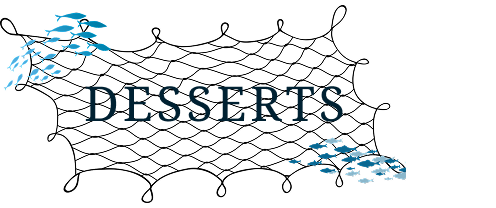
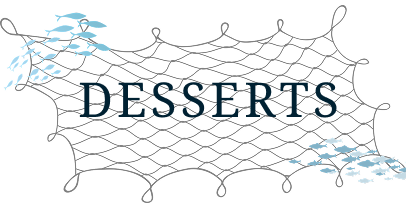
refactor: fix menu styles

Changed region(s): [[0.0, 0.0288, 1.0, 0.9808]]

diff --git a/menu.html b/menu.html
@@ -44,7 +44,7 @@
     </header>
     <main>
         <div class="categories-header-img">
-            <img src="Assets/header-main-courses.png" alt="Header Image for Main Courses">
+            <img src="Assets/header-main-courses.png" alt="Header Image for Main Courses" class="menu-header-img" id="mainCourseHeader">
         </div>
         <section class="menu-body main-courses">
             <div class="menu-container">
@@ -100,11 +100,11 @@
                             <h3 class="menu-subtitle menu-subtitle1 menu-name">Ocean Feast Seafood Tray - Classic</h3>
                             <h3 class="menu-subtitle menu-subtitle2 menu-price">PHP 2199</h3>
                         </div>
-                        <p class="menu-description-tray">
+                        <p class="menu-description">
                             Contains 500g of Crabs, 400g of Shrimp, 400g of squid,  2 pieces of Lobsters, 250g of mussels and scallops, 250g of oysters,
                             100g of potato marbles, 2 corns, eggs, sausages and 350g of mixed veggies.
                         </p>
-                        <p class="menu-extra-tray">
+                        <p class="menu-extra">
                             Indulge in a lavish seafood feast with our Signature Seafood Tray Boil, a perfectly seasoned medley of ocean-fresh delights. 
                             Enjoy succulent crabs, plump shrimp, tender lobster, and flavorful mussels and scallops, all complemented by buttery potatoes and sweet corn. 
                             Steamed to perfection and infused with rich, aromatic spices, this seafood experience is designed for sharing and savoring. Get hooked on the ocean’s finest!
@@ -120,11 +120,11 @@
                             <h3 class="menu-subtitle menu-subtitle1 menu-name">Ocean Feast Seafood Tray - Supreme</h3>
                             <h3 class="menu-subtitle menu-subtitle2 menu-price">PHP 2899</h3>
                         </div>
-                        <p class="menu-description-tray">    
+                        <p class="menu-description">    
                             Contains 800g of Crabs, 600g of Shrimp, 600g of squid,  4 pieces of Lobsters, 500g of mussels and scallops, 350g of oysters,
                             200g of potato marbles, 4 corns, eggs, sausages, lemon butter dip, and 500g of mixed veggies.
                         </p>
-                        <p class="menu-extra-tray">
+                        <p class="menu-extra">
                             Indulge in a lavish seafood feast with our Signature Seafood Tray Boil, in a bigger serving and more mouth-watering flavor. 
                             A perfectly seasoned medley of ocean-fresh delights. Enjoy succulent crabs, plump shrimp, tender lobster, and flavorful mussels and scallops, 
                             all complemented by buttery potatoes and sweet corn. Steamed to perfection and infused with rich, aromatic spices, this seafood experience 
@@ -136,7 +136,7 @@
         </section>
         
         <div class="categories-header-img">
-            <img src="Assets/header-appetizers.png" alt="Header Image for Appetizers">
+            <img src="Assets/header-appetizers.png" alt="Header Image for Appetizers" class="menu-header-img">
         </div>
         <section class="menu-body appetizers">
             <div class="menu-container">
@@ -203,7 +203,7 @@
         </section>
 
         <div class="categories-header-img">
-            <img src="Assets/header-desserts.png" alt="Header Image for Desserts">
+            <img src="Assets/header-desserts.png" alt="Header Image for Desserts" class="menu-header-img">
         </div>
         <section class="menu-body desserts">
             <div class="menu-container">
@@ -267,7 +267,7 @@
         </section>
 
         <div class="categories-header-img">
-            <img src="Assets/header-drinks.png" alt="Header Image for Drinks">
+            <img src="Assets/header-drinks.png" alt="Header Image for Drinks" class="menu-header-img">
         </div>
         <section class="menu-body drinks">
             <div class="menu-container">

diff --git a/style.css b/style.css
@@ -83,6 +83,7 @@ a:hover {
     --bs-nav-link-color: white;
     --bs-navbar-nav-link-padding-x: 1rem;
     text-align: end;
+    --bs-nav-link-font-size: 1.2rem;
 }
 
 .nav-link.active {
@@ -659,7 +660,10 @@ a:hover {
         animation: fadeIn 2s ease-in 0s 1 normal forwards;
     }
 
-    /* Main Courses Grid Layout */
+    #mainCourseHeader {
+        padding-top: 10%;
+    }
+
     .menu-container {
         gap: 5%;
         max-width: 80%;
@@ -692,6 +696,8 @@ a:hover {
         font-family: var(--primary-font);
         padding-bottom: 2%;
         letter-spacing: 0.08em;
+        text-align: justify;
+        opacity: 75%;
     }
 
     .menu-title {
@@ -723,12 +729,13 @@ a:hover {
         padding-bottom: 0;
     }
 
-    .menu-extra, .menu-extra-tray {
+    .menu-extra {
         font-size: 20px;
         font-family: var(--primary-font);
         line-height: 26px;
         letter-spacing: 0.08em;
         margin-top: 3%;
+        text-align: justify;
     }
 
     .menu-subtitle, .menu-subtitle-tray {
@@ -764,12 +771,10 @@ a:hover {
 
     .desserts .menu-item {
         justify-content: end;
-        padding: 0 5%;
     }
     
     .drinks .menu-item {
         justify-content: start;
-        padding: 0 5%;
     }
 
     /* RESPONSIVE STYLES FOR MENU PAGE */
@@ -795,14 +800,31 @@ a:hover {
         .menu-item {
             grid-template-columns: 1fr;
             justify-items: center;
+            margin-bottom: 5%;
+            padding-bottom: 10%;
         }
+
         .menu-item-header {
             flex-direction: column;
             text-align: center;
         }
+
         .menu-item-header .menu-price {
             font-size: 2em;
             text-align: center;
+        }
+        
+        .menu-image img {
+            padding: 1em;
+        }
+
+        .menu-item-header .menu-price, .menu-item-header .menu-name {
+            padding-bottom: 0.2em;
+            margin: 0; 
+        }
+
+        .menu-extra {
+            margin: 0;
         }
     }
     
@@ -810,12 +832,15 @@ a:hover {
         .menu-title, .menu-title-tray {
             font-size: 42px;
         }
+
         .menu-subtitle, .menu-subtitle-tray {
             font-size: 32px;
         }
-        .menu-extra, .menu-extra-tray {
+
+        .menu-extra {
             font-size: 18px;
         }
+
         .menu-image img, .menu-body img {
             width: 250px;
             height: 250px;
@@ -845,8 +870,25 @@ a:hover {
         }
     
         .menu-body img {
-            width: 200px;
-            height: 200px;
+            width: 250px;
+            height: 250px;
+        }
+        
+        .menu-item {
+            padding: 5% 10%;
+        }
+
+        .menu-description {
+            font-size: 0.8em;
+        }
+
+        .menu-extra {
+            font-size: 1em;
+        }
+
+        .menu-header-img {
+            width: 80%;
+            margin: 0 auto;
         }
     }
     
@@ -868,8 +910,25 @@ a:hover {
         }
     
         .menu-body img {
-            width: 150px;
-            height: 150px;
+            width: 200px;
+            height: 200px;
+        }
+
+        .menu-description {
+            font-size: 0.75em;
+        }
+
+        .menu-extra {
+            font-size: 0.9em;
+        }
+
+        .menu-item {
+            padding: 2em 2em 5em 2em;
+        }
+
+        .menu-header-img {
+            width: 60%;
+            margin: 0 auto;
         }
     }
 
